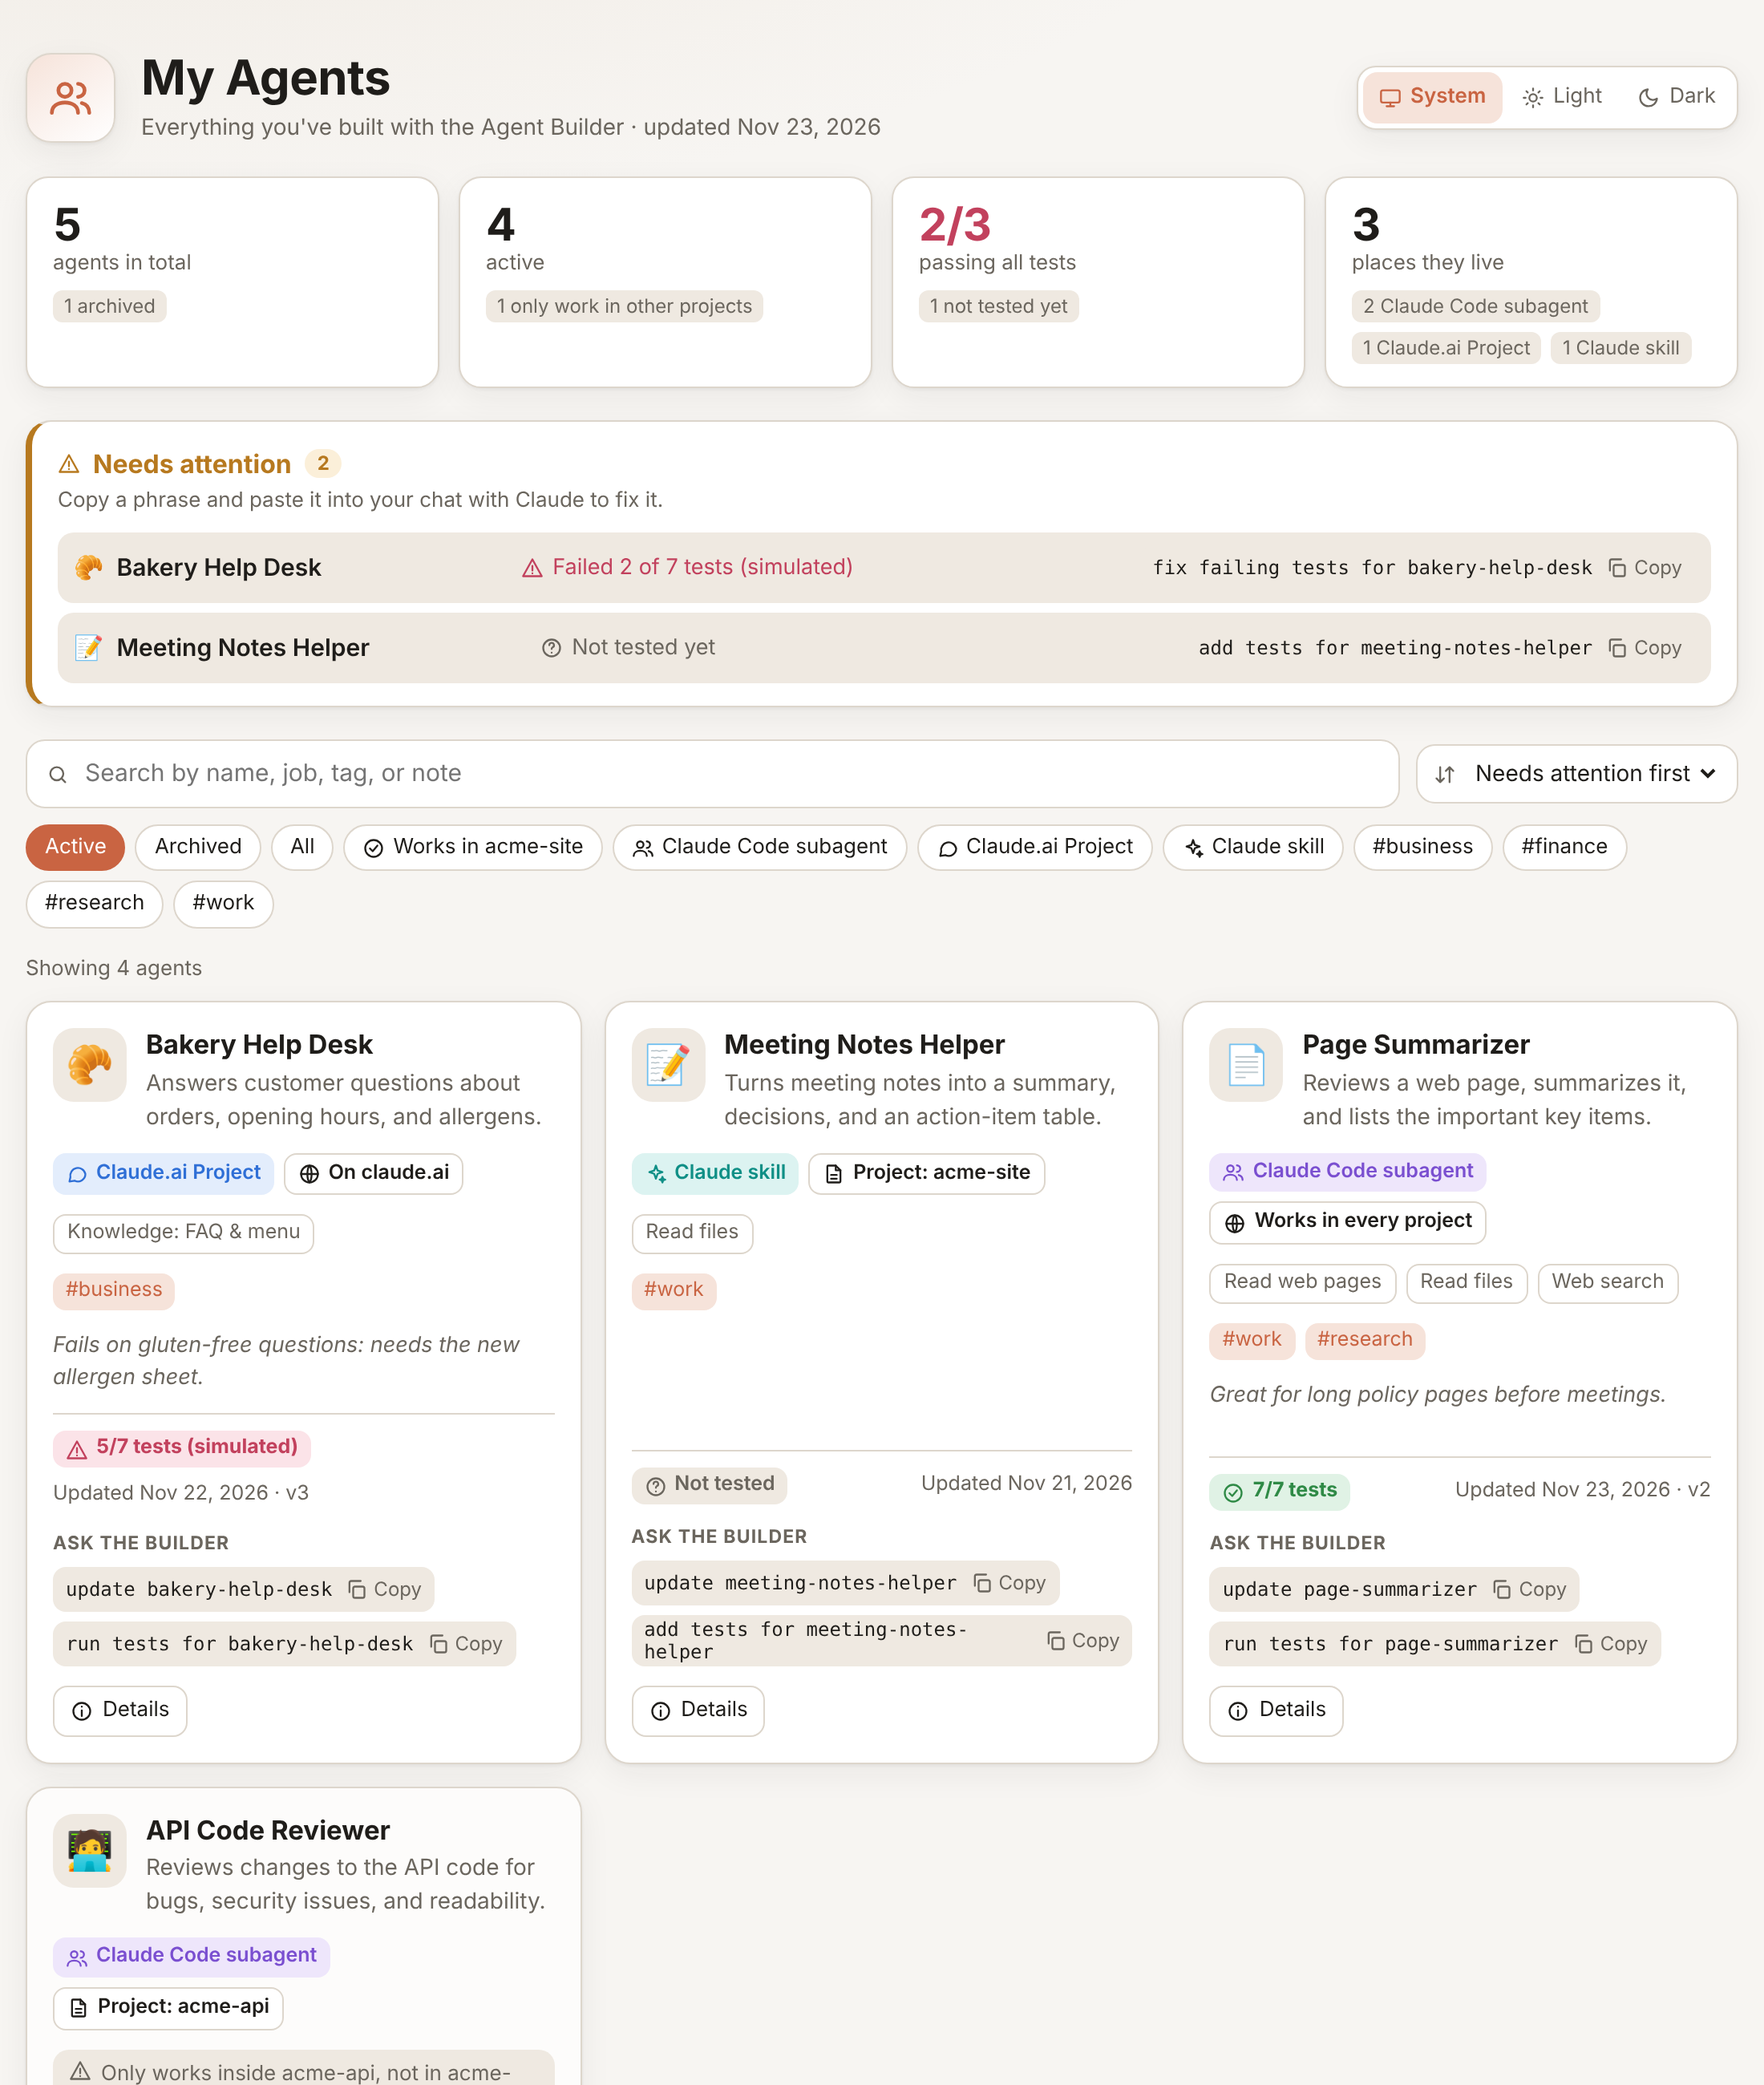
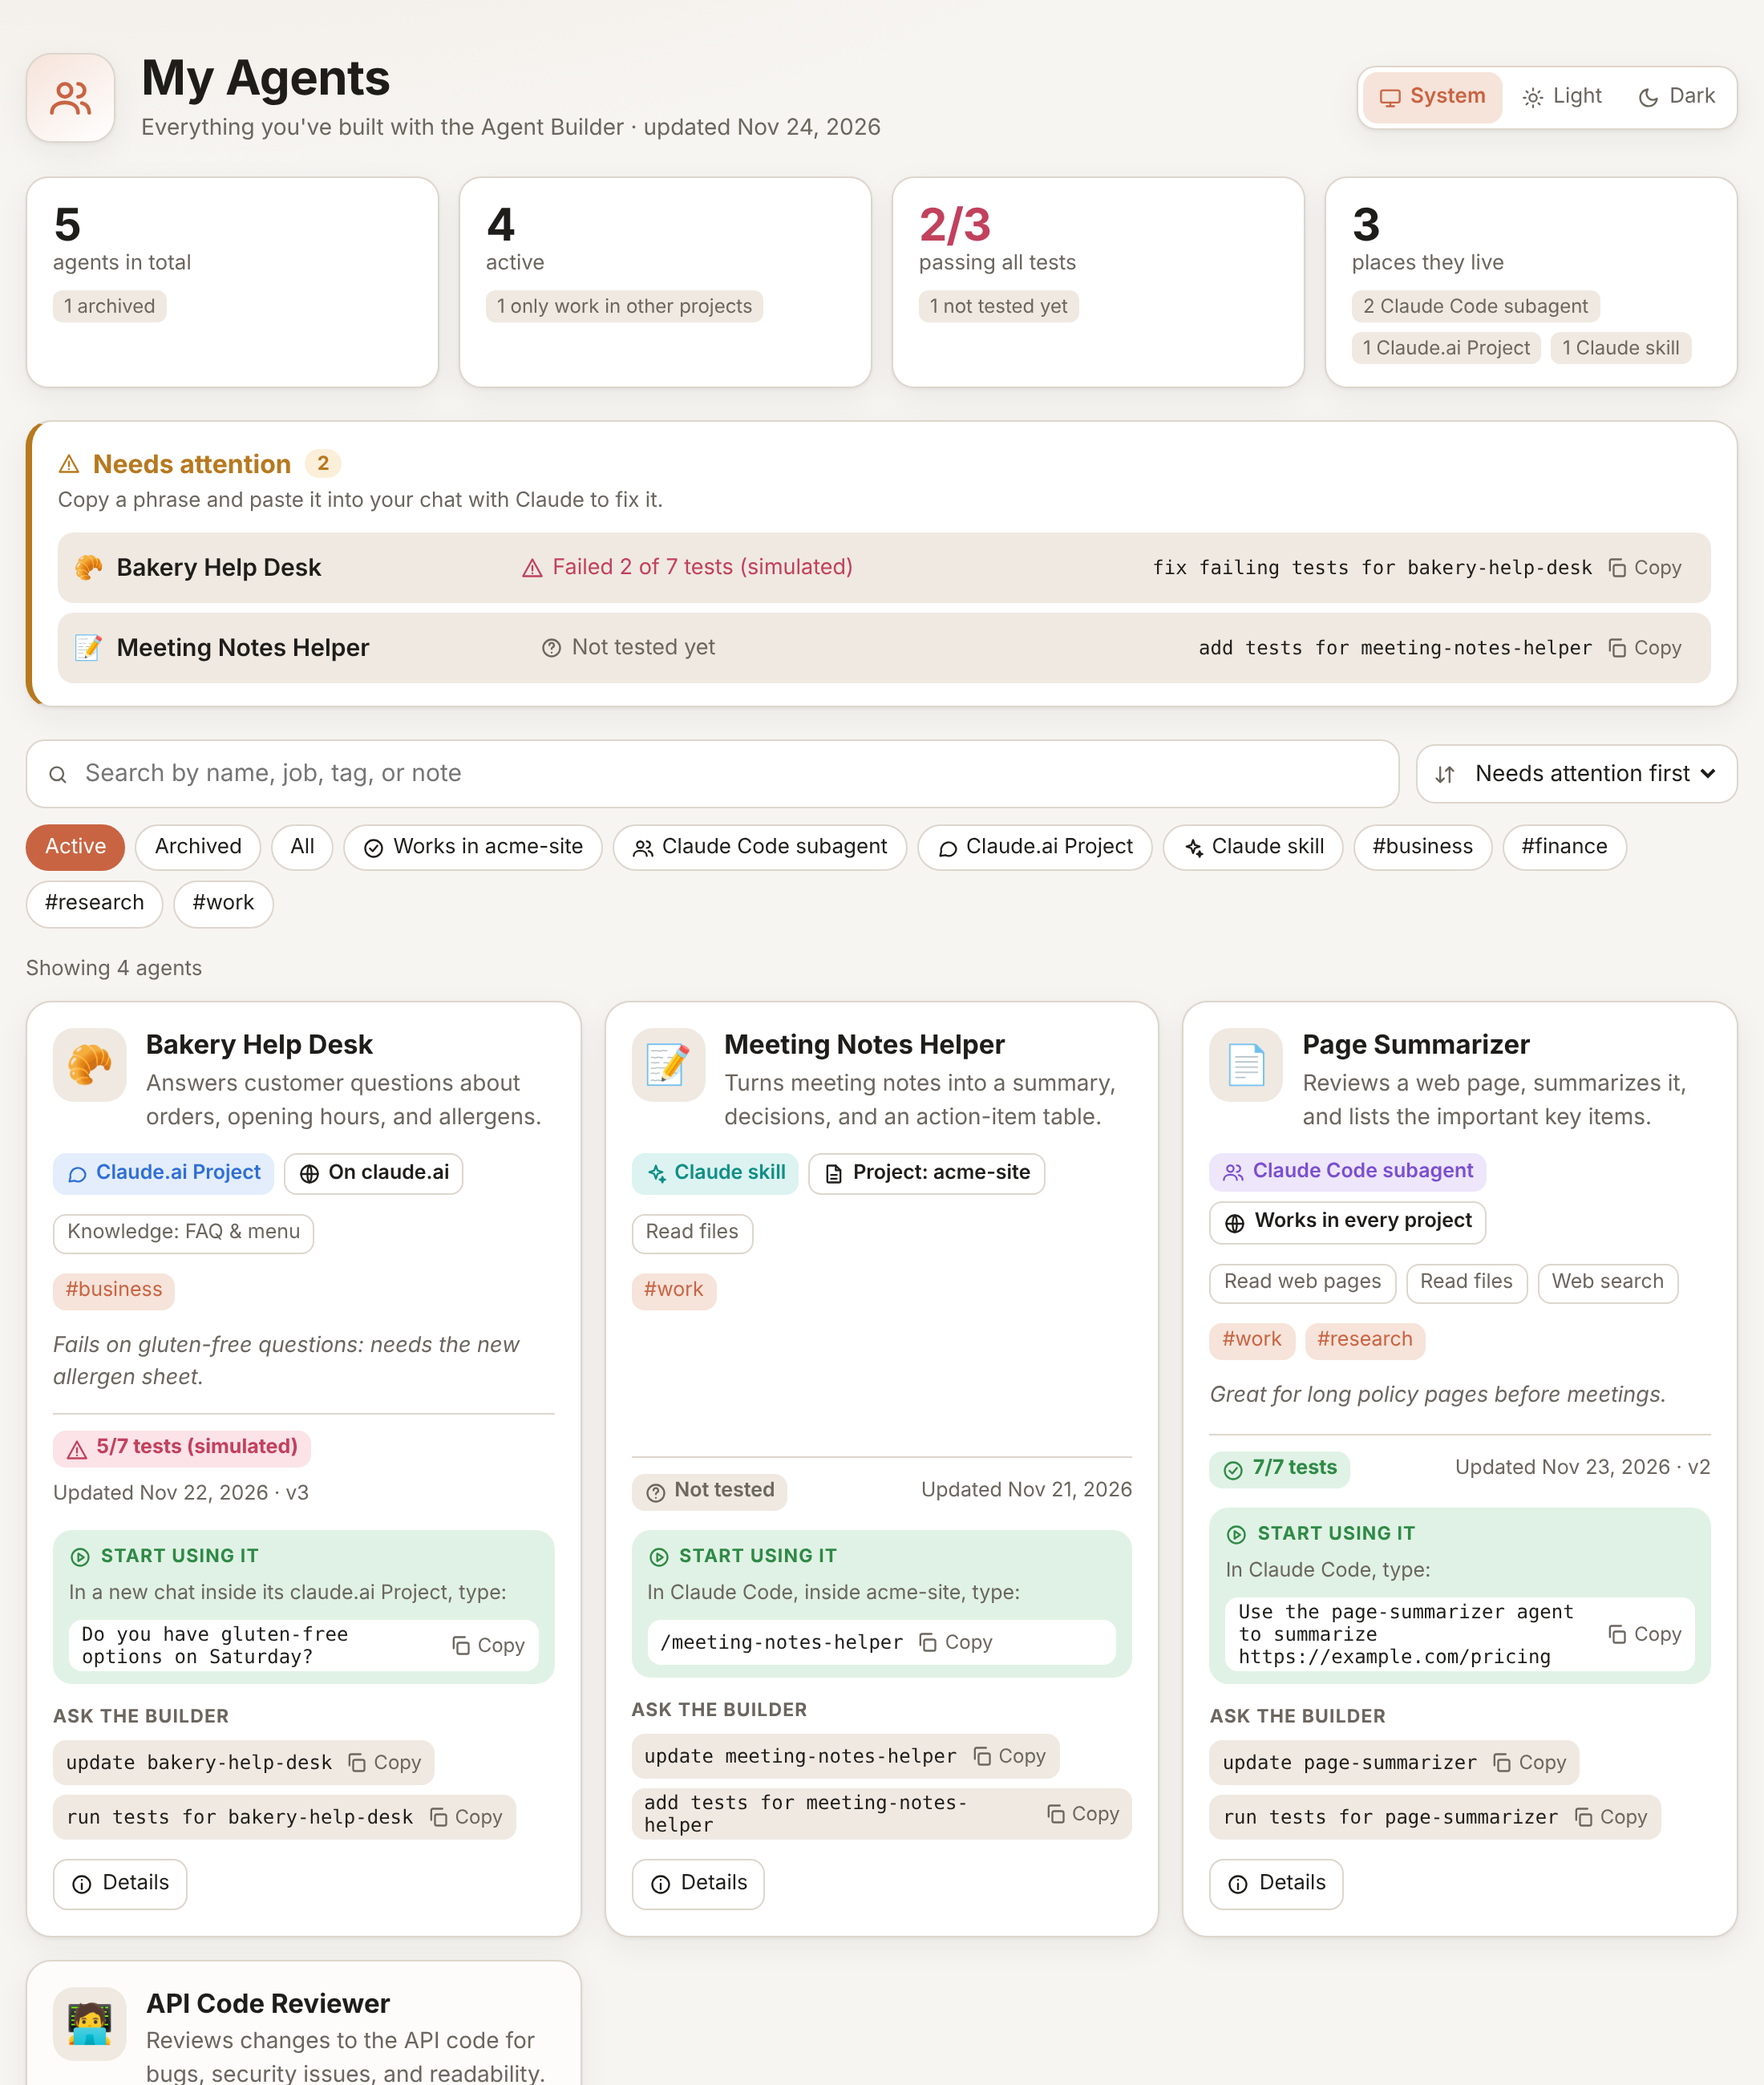
Regenerate My Agents screenshot to show the Start using it box
Claude-Session: https://claude.ai/code/session_015HBm4kL8gJj9QorM8xLnN9

Changed region(s): [[0.0309, 0.6854, 0.6491, 1.0], [0.68, 0.6854, 0.9891, 0.9035]]

diff --git a/README.md b/README.md
@@ -45,7 +45,7 @@ Results also come as a **visual test report**. Failures are listed first, each s
 
 Every agent you build is added to **My Agents** automatically. Run `/agent-builder:my-agents`, or just say *"my agents"*, to see how many you have and what each one does, in a chat table and a visual dashboard (with a light/dark theme switch):
 
-<p align="center"><img src="docs/my-agents.png" alt="My Agents dashboard showing agent cards with what each does, where it lives, and test status" width="720"></p>
+<p align="center"><img src="docs/my-agents.png" alt="My Agents dashboard showing agent cards with what each does, where it lives, test status, and a Start using it box with the first message to type" width="720"></p>
 
 Each card has a **Start using it** box with the exact first message to type (with a Copy button), and **Details → How to use it** gives step-by-step instructions for every place the agent lives. Forgot how to use one? Say *"how do I use page-summarizer"*. A **Needs attention** strip shows agents with failing tests, missing files, or no tests yet. Every suggested action has a **Copy** button, so you just paste it into the chat. Open **Details** on any agent for its full file paths, test history, a preview of its instructions, and links to its Flow Preview and test report. From there you can update an agent, run its tests, tag it (#work, #personal), add notes, archive agents you don't use, or delete them (always with confirmation). In Claude Code the list is saved for you in `~/.claude/agent-builder/my-agents.json`. It covers **all your projects**: agents installed "only for this project" are labeled with their project, and flagged when you're working somewhere else. On claude.ai, the builder hands you an updated `my-agents.json` to keep in a "My Agents" Project.
 
